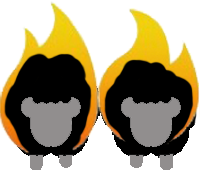
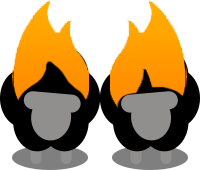
New fire sheep sprite asset.

diff --git a/core/src/mx/itesm/sheep/MapScreen.java b/core/src/mx/itesm/sheep/MapScreen.java
@@ -95,7 +95,7 @@ public class MapScreen extends ScreenTemplate {
         levelOneBtn.addListener(new ClickListener(){
             @Override
             public void clicked(InputEvent event, float x, float y) {
-                sheepEm.setScreen(new AlienLevel(sheepEm));
+                sheepEm.setScreen(new LevelOne(sheepEm));
                 sheepEm.pauseMenuMusic();
                 pref.flush();
 
